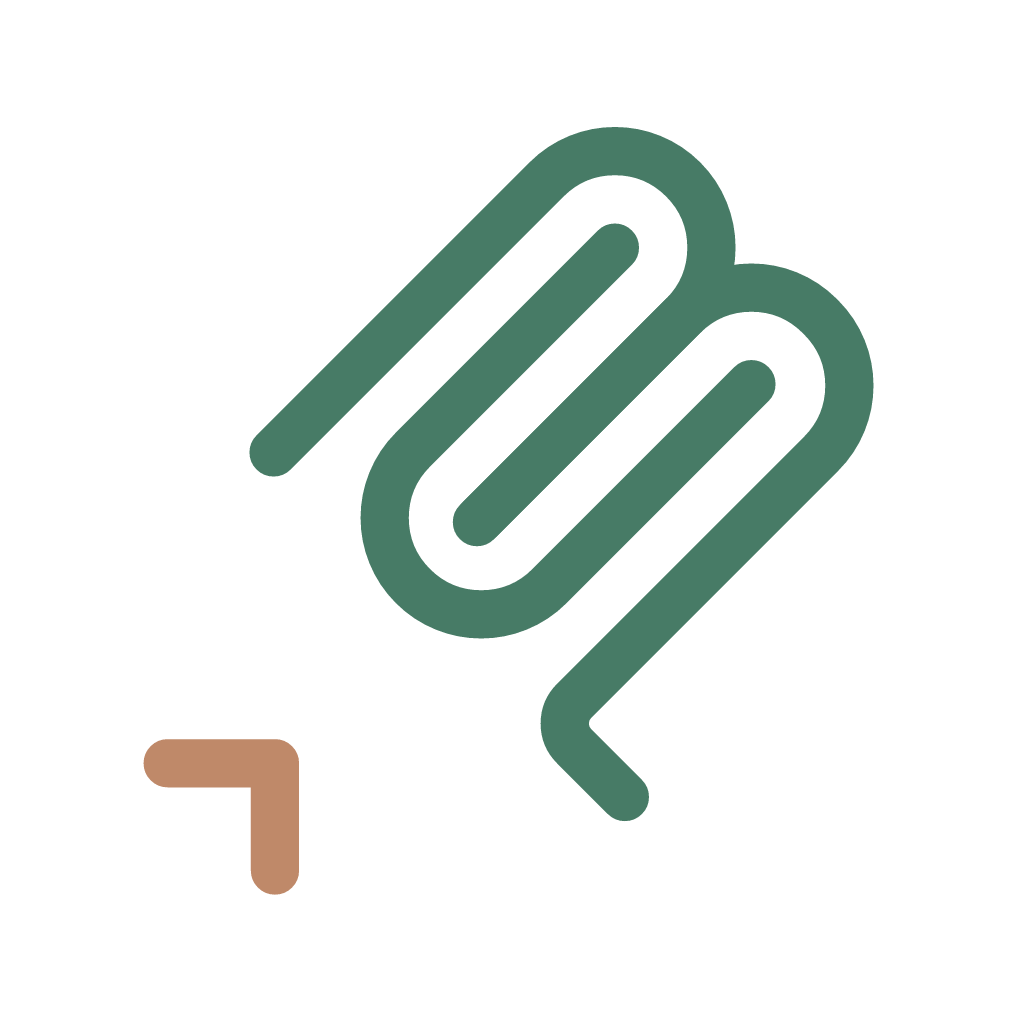
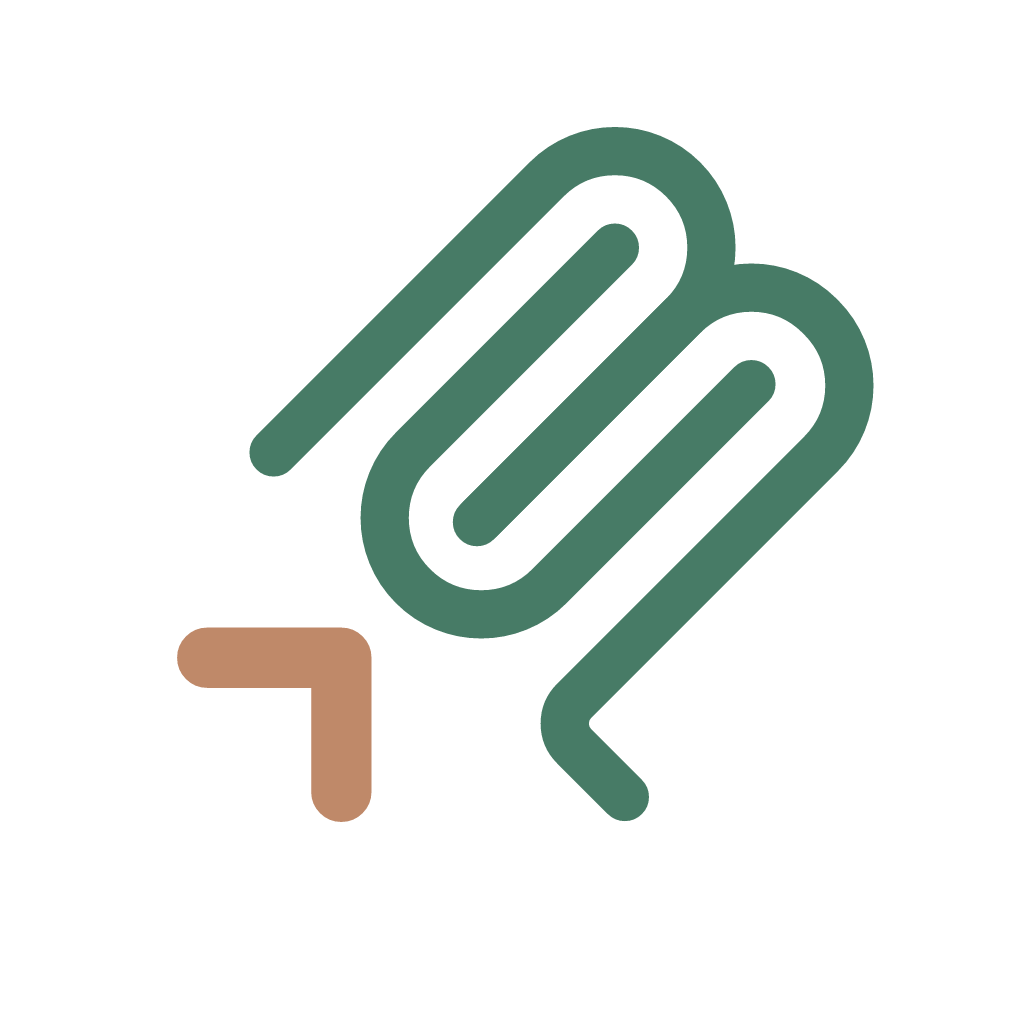
fix(desktop): enlarge and align CLI prefix with MCP axis

Changed region(s): [[0.125, 0.5938, 0.375, 0.875]]

diff --git a/apps/desktop/backend/tray-images.ts b/apps/desktop/backend/tray-images.ts
@@ -2,14 +2,14 @@
 export const trayImages = {
   template: {
     running:
[2 lines of base64/hex data omitted]
     stopped:
[2 lines of base64/hex data omitted]
   },
   color: {
     running:
[2 lines of base64/hex data omitted]
     stopped:
[2 lines of base64/hex data omitted]
   },
 };

diff --git a/apps/desktop/test/icons.test.ts b/apps/desktop/test/icons.test.ts
@@ -7,12 +7,15 @@ for (const palette of ["template", "color"] as const) {
   test(`${palette} tray dims only MCP to 50% while the prompt remains opaque`, () => {
     const running = renderIcon(source, { palette, state: "running", width: 216 });
     const stopped = renderIcon(source, { palette, state: "stopped", width: 216 });
+    const prefixMask = renderIcon(
+      source.replace('data-part="mcp" opacity="1"', 'data-part="mcp" opacity="0"'),
+      { palette, state: "running", width: 216 },
+    );
     let prefixPixels = 0;
     let mcpPixels = 0;
     for (let offset = 0; offset < running.pixels.length; offset += 4) {
       if (running.pixels[offset + 3] !== 255) continue;
-      const pixel = offset / 4;
-      const isPrefix = pixel % running.width < 80 && Math.floor(pixel / running.width) > 145;
+      const isPrefix = (prefixMask.pixels[offset + 3] ?? 0) > 0;
       const alpha = isPrefix ? 255 : 128;
       expect(stopped.pixels[offset + 3]).toBe(alpha);
       for (let channel = 0; channel < 3; channel += 1) {
